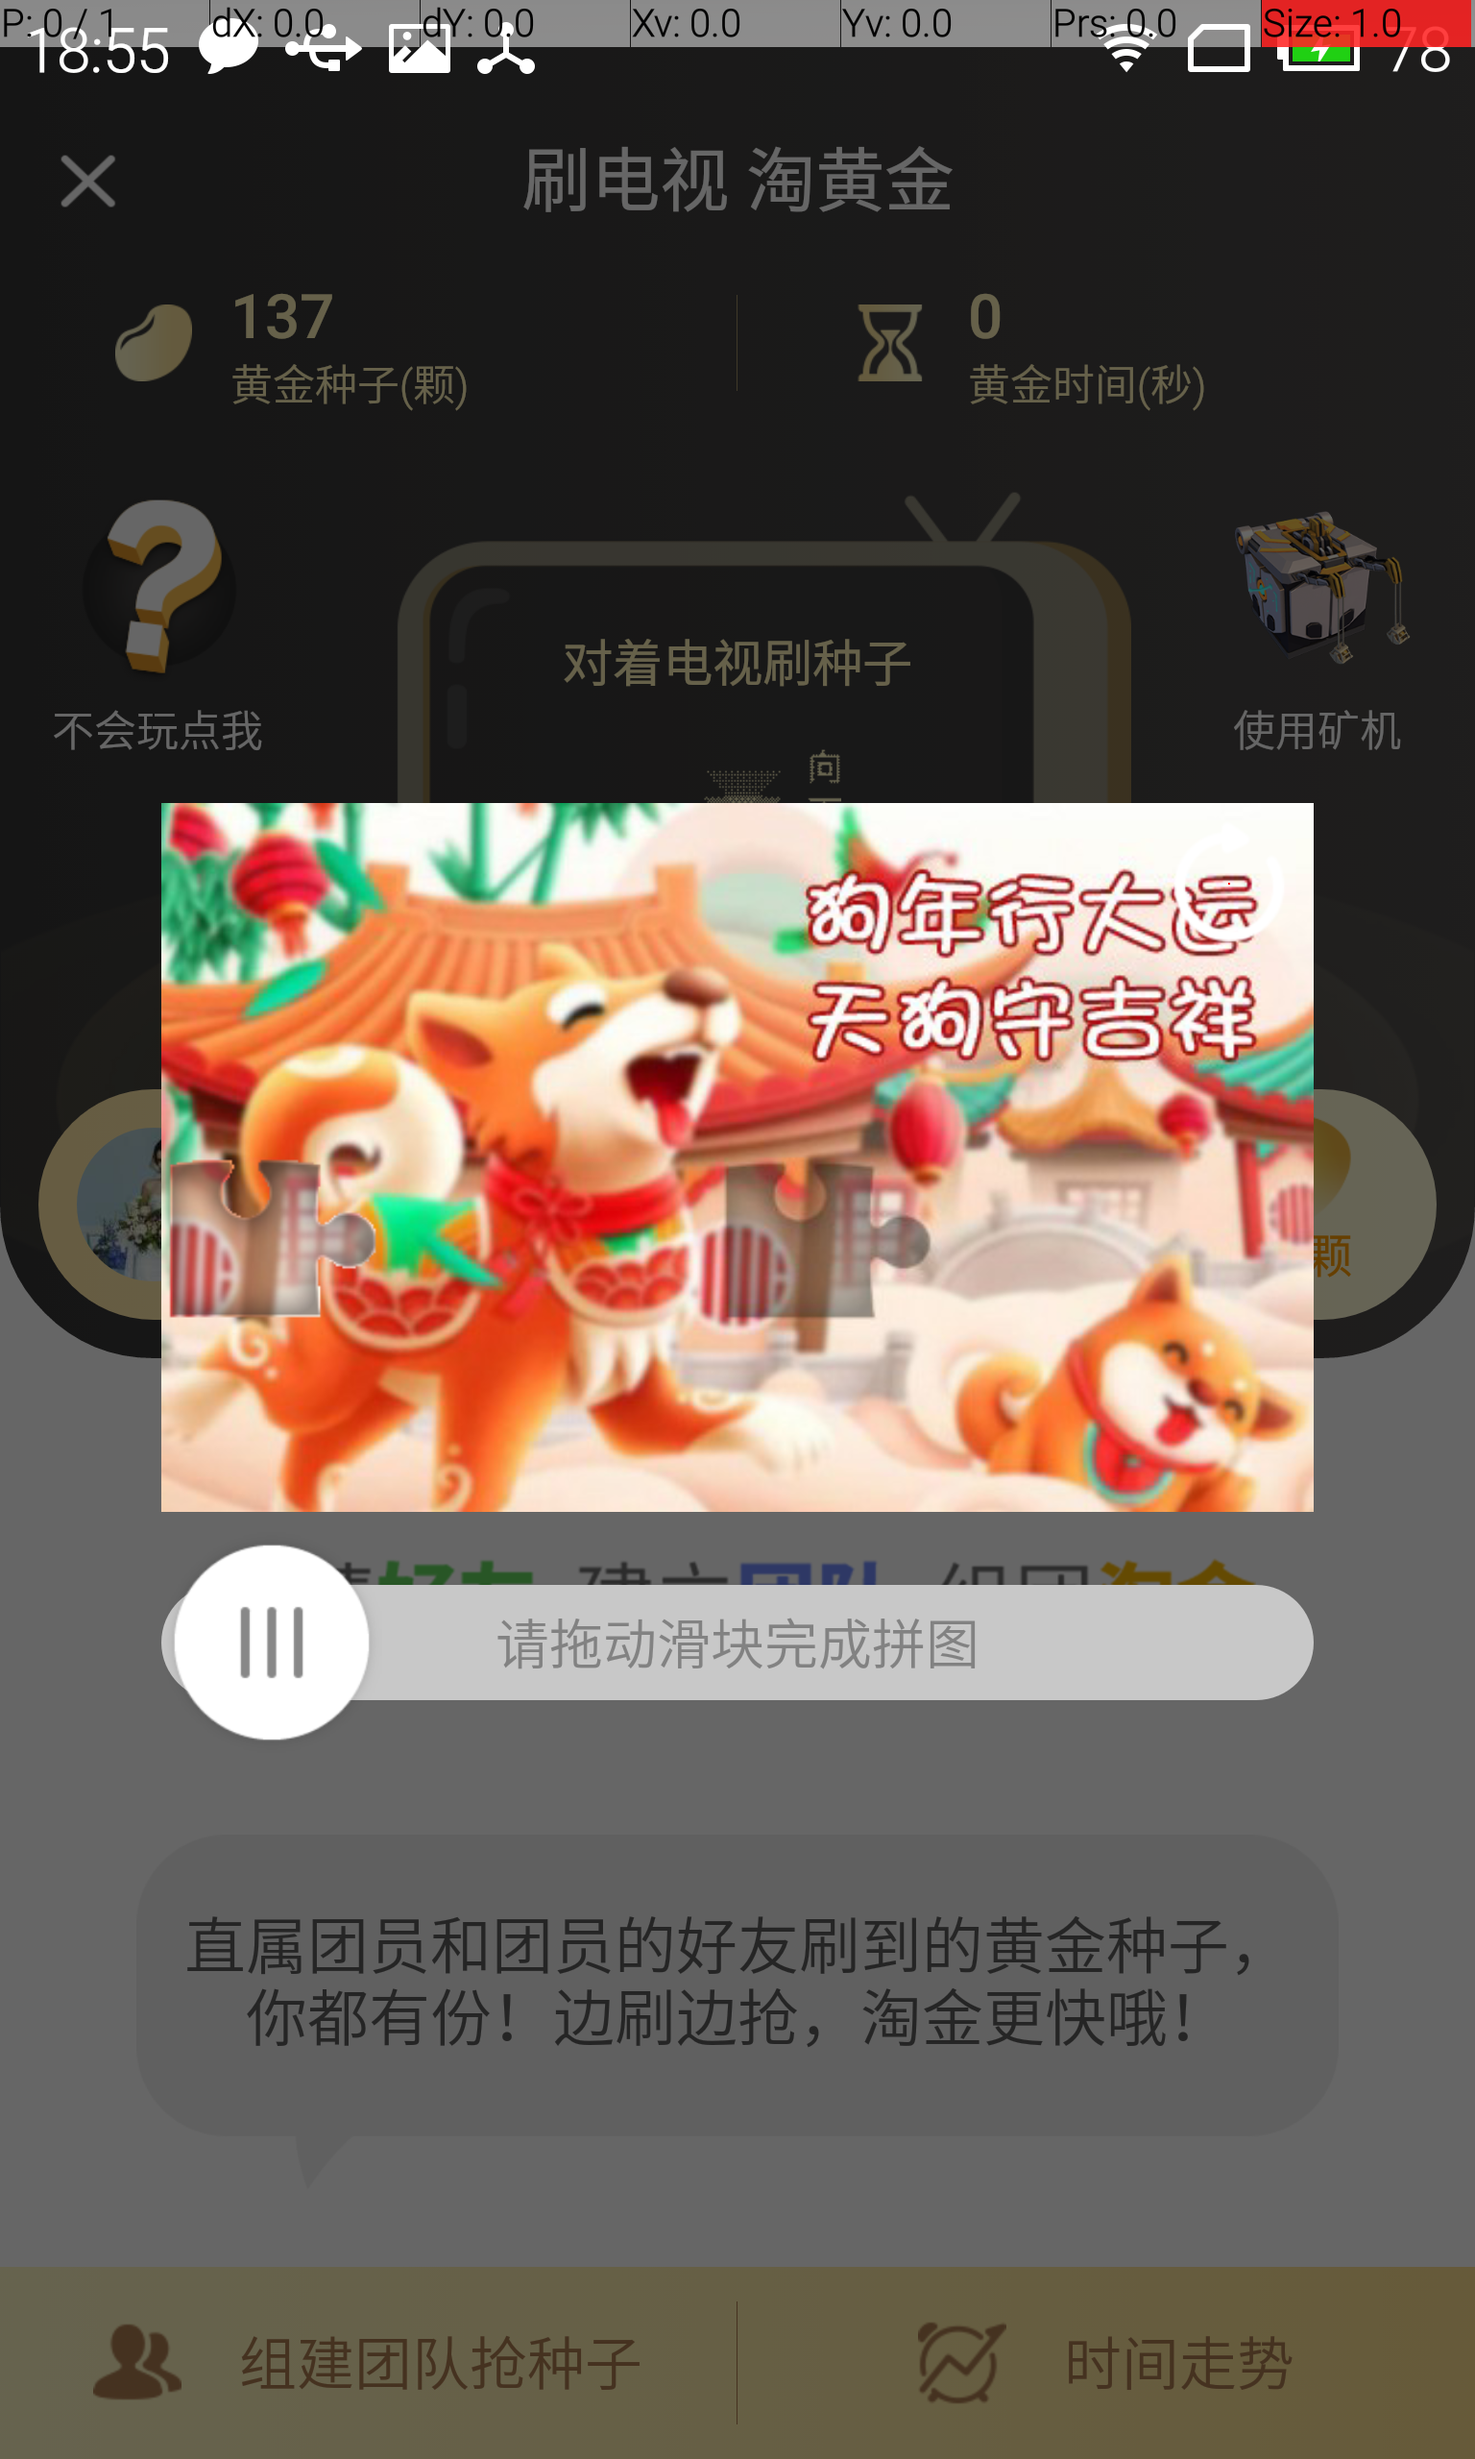
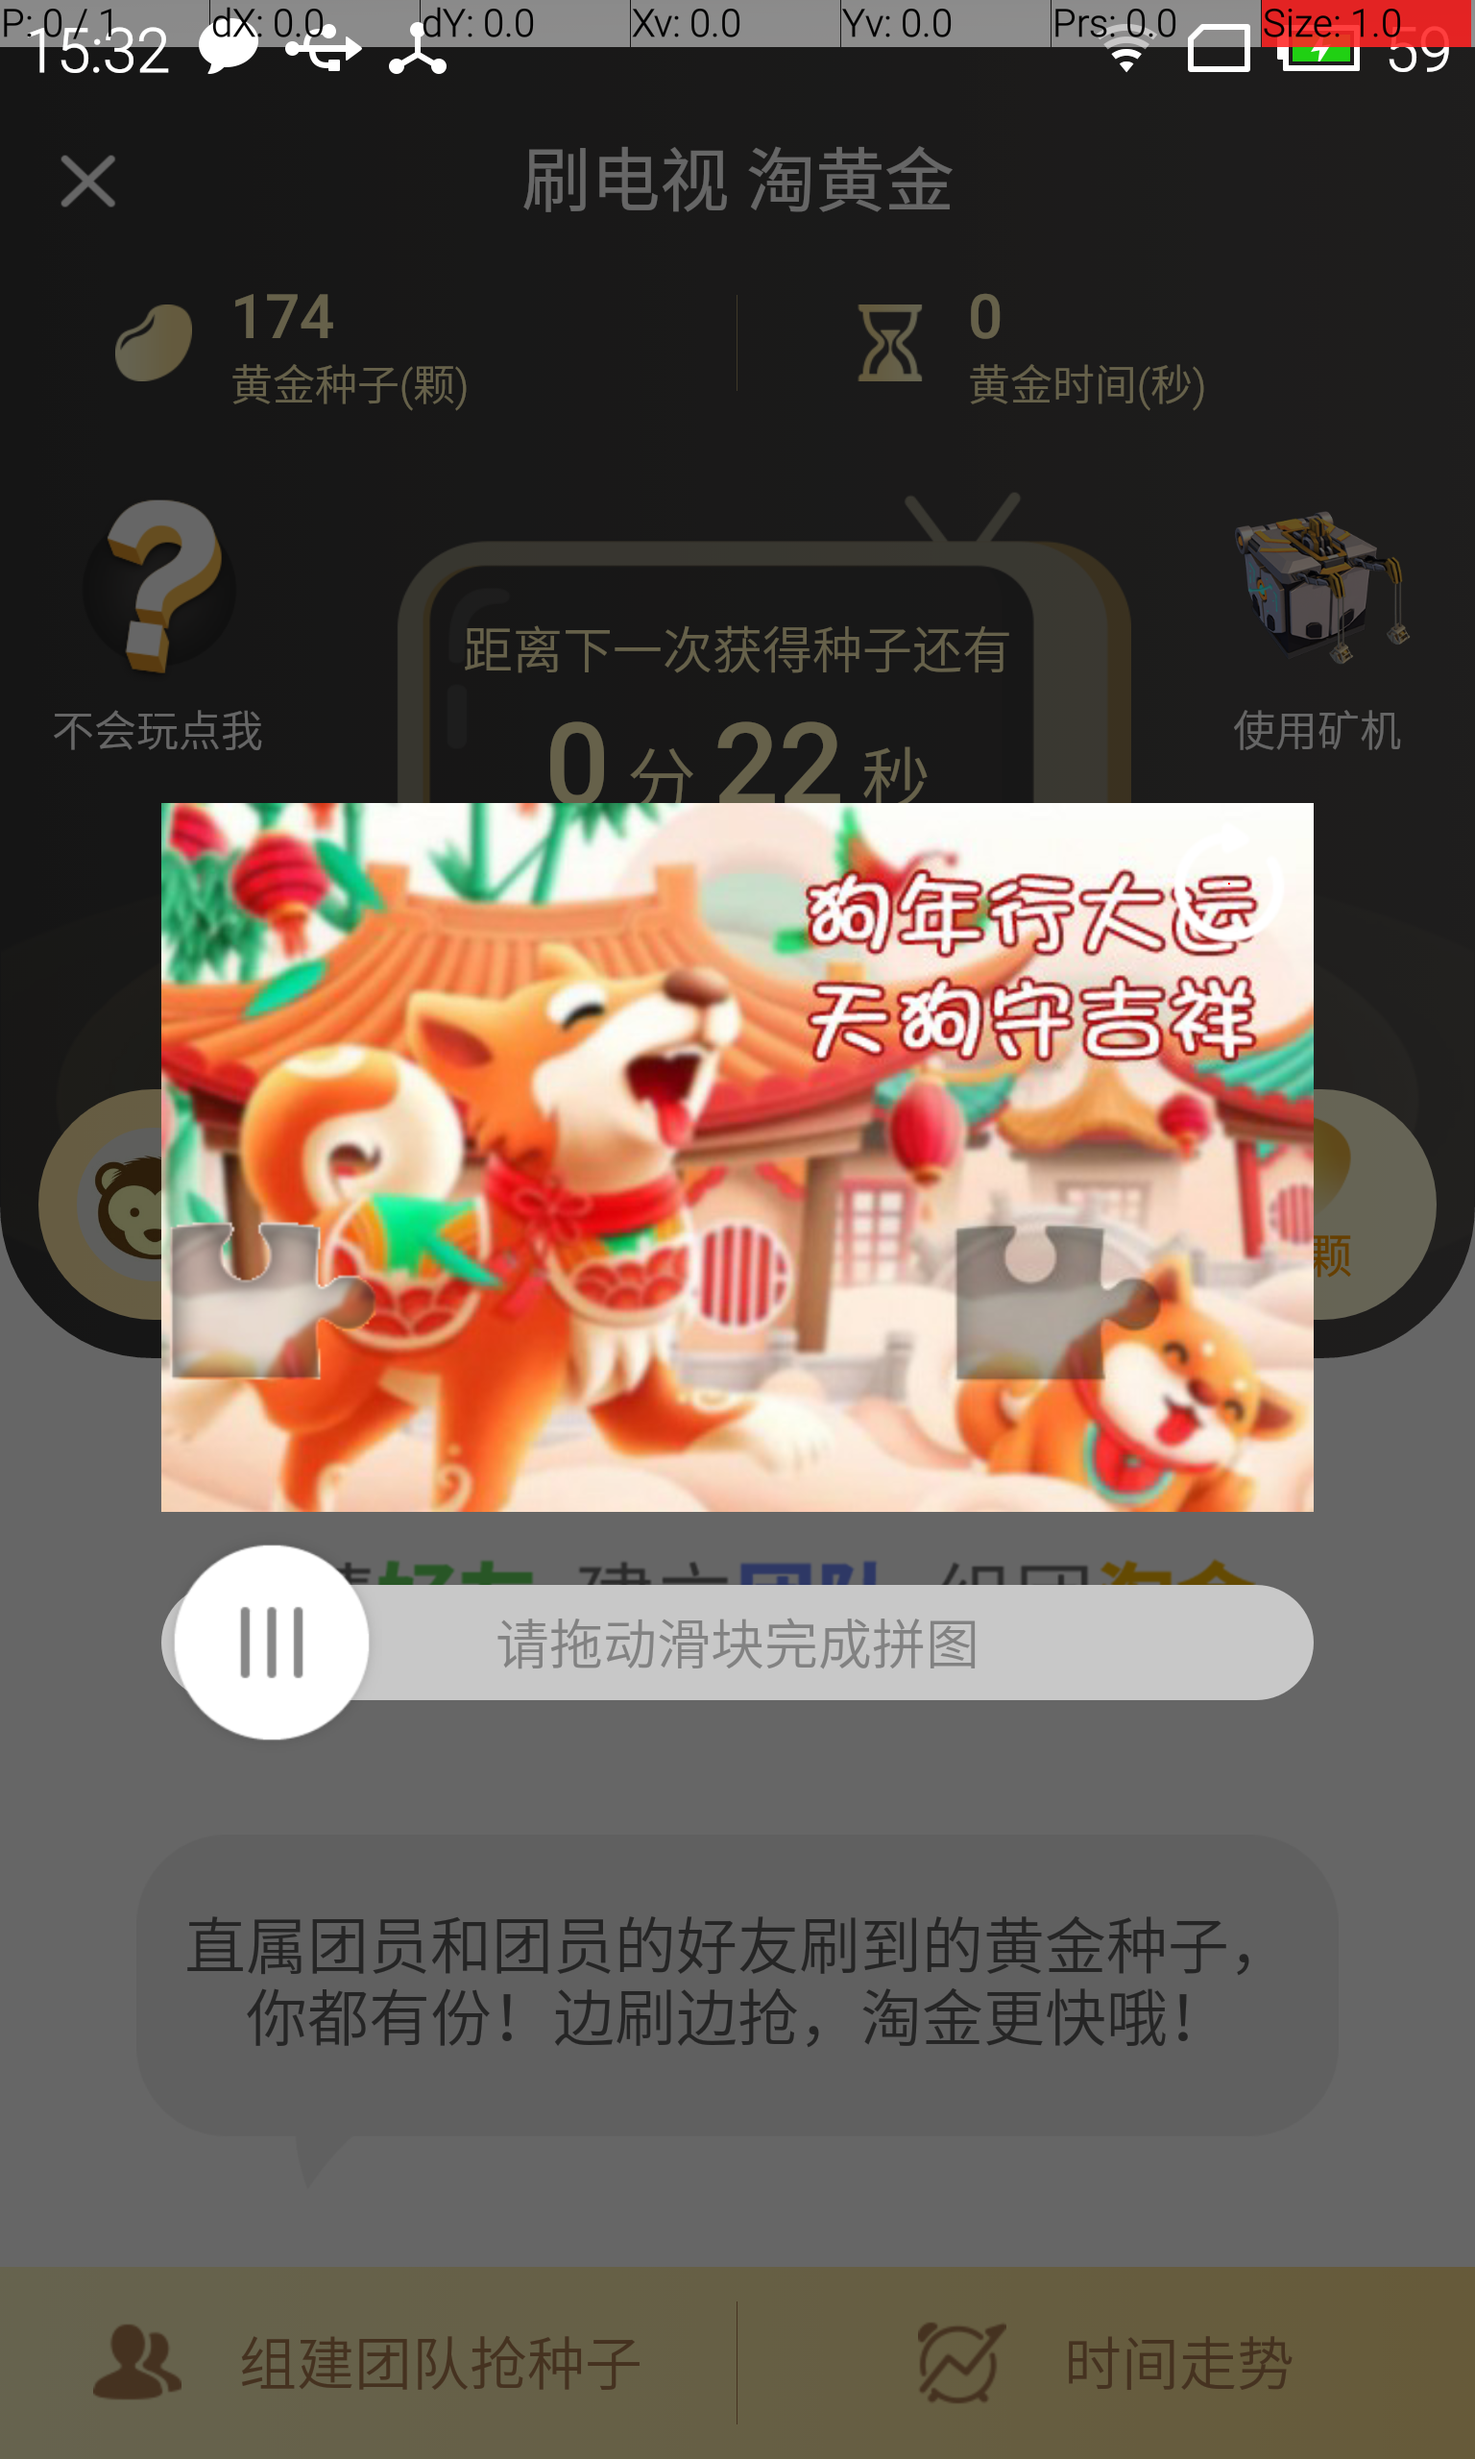
1、1.0 自动添加图库 2、修改阴影判别 3、关闭广告3

diff --git a/autoImage.js b/autoImage.js
@@ -4,7 +4,7 @@ var exec = require('child_process').exec
 var deviceConfig = require("./deviceConfig.js")
 
 var images = []
-var ids = [1,2,3,4,5,6,7,8]
+var ids = [1,2,3,4,5]
 var number = 0
 
 //分辨率配置
@@ -31,6 +31,11 @@ var closeAd1 = {
 var closeAd2 = {
     X:deviceConfig.closeAd2.X,
     Y:deviceConfig.closeAd2.Y
+}
+
+var closeAd3 = {
+    X:deviceConfig.closeAd3.X,
+    Y:deviceConfig.closeAd3.Y
 }
 
 //关闭确认页
@@ -186,15 +191,12 @@ function contrastImage (callback) {
             var blackImage = result.checkImage.pointArray
             var target = result.target.pointArray
             for (var i = 0; i < ArrayX; i++) {
-                var count = 0
                 for (var j = 0; j < ArrayY; j++) {
                     var blackImageY = getPonitY(blackImage[i][j])
                     var targetY = getPonitY(target[i][j])
-                    if (targetY < blackImageY) {
-                        count++
-                        if (count > 100) {
-                            return cb(null, i + deviceConfig.screen.minX)
-                        }
+                    if (targetY < blackImageY &&  checkFiftyRightPoint(blackImage,target,i,j)) {
+                        console.log('阴影位置 x:%j',i + deviceConfig.screen.minX) 
+                        return cb(null, i + deviceConfig.screen.minX)
                     }
                 }
             }
@@ -289,10 +291,10 @@ function atuoPass (cb) {
         }],
         final:['check', function (result, cb) {
             var point = result.check
-            // console.log('对比完成, 目标点:%j',point)
-            // console.log('移动距离:%j', point - leftX)
+            console.log('对比完成, 目标点:%j',point)
+            console.log('移动距离:%j', point - leftX)
             var endPoint = point + slidePoint.X - leftX
-            // console.log('终点:%j', endPoint)
+            console.log('终点:%j', endPoint)
             slide (slidePoint,{X:endPoint,Y:slidePoint.Y},slideTime,function (err) {
                 if (err) {
                     return cb(err)
@@ -348,6 +350,15 @@ function closeAd (cb) {
             click(closeAd2,500,function (err) {
                 if (err) {
                     return cb('广告 ad2 关闭失败, err:'+err)
+                }
+                cb()
+            })
+        }],
+        //广告3     
+        ad3: ['ad2', function (result, cb) {
+            click(closeAd3,500,function (err) {
+                if (err) {
+                    return cb('广告 ad3 关闭失败, err:'+err)
                 }
                 cb()
             })
@@ -446,19 +457,17 @@ function forever () {
     })
 }
 
-//主方法
-// loadImages(function (err) {
-//     if (err) {
-//         console.log(err)
-//         return
-//     }
-//     forever()
-// }) 
-
+// 主方法
+loadImages(function (err) {
+    if (err) {
+        console.log(err)
+        return
+    }
+    forever()
+}) 
 
 
 //1.0
-
 //智能装在图库
 //获取图片=>对比图片=>保存图
 function addImage (cb) {
@@ -598,6 +607,21 @@ function saveImage (name,cb) {
     })
 }
 
+//检测右50连续阴影像素
+function checkFiftyRightPoint (blackImage,target,x,y) {
+    var count = 0
+    for (var i = 0; i < 50; i++) {
+        if (getPonitY(blackImage[x+i][y]) > getPonitY(target[x+i][y])) {
+            count ++
+            console.log("连续检测 x:%j, y:%j, count:%j",x + deviceConfig.screen.minX,y + deviceConfig.screen.minY,count)
+        } else {
+            break
+        }
+    }
+    return count > 48 ? true : false
+}
+
+//自动生成图库
 function autoImages () {
     addImage( function (err){
         if (err) {

diff --git a/deviceConfig.js b/deviceConfig.js
@@ -21,6 +21,10 @@ var CONFIG = {
         X:1350,
         Y:880
     },
+    "closeAd3": {
+        X:1370,
+        Y:960
+    },
     //关闭确认页
     "closePoint" :{
         X:1350,
@@ -46,7 +50,7 @@ var CONFIG = {
         Y:920
     },
     //滑块速度
-    "slideTime" : 7000,
+    "slideTime" : 15000,
     "projectPath" : "/Users/ming/yard/cashBookApi"
 };
 
